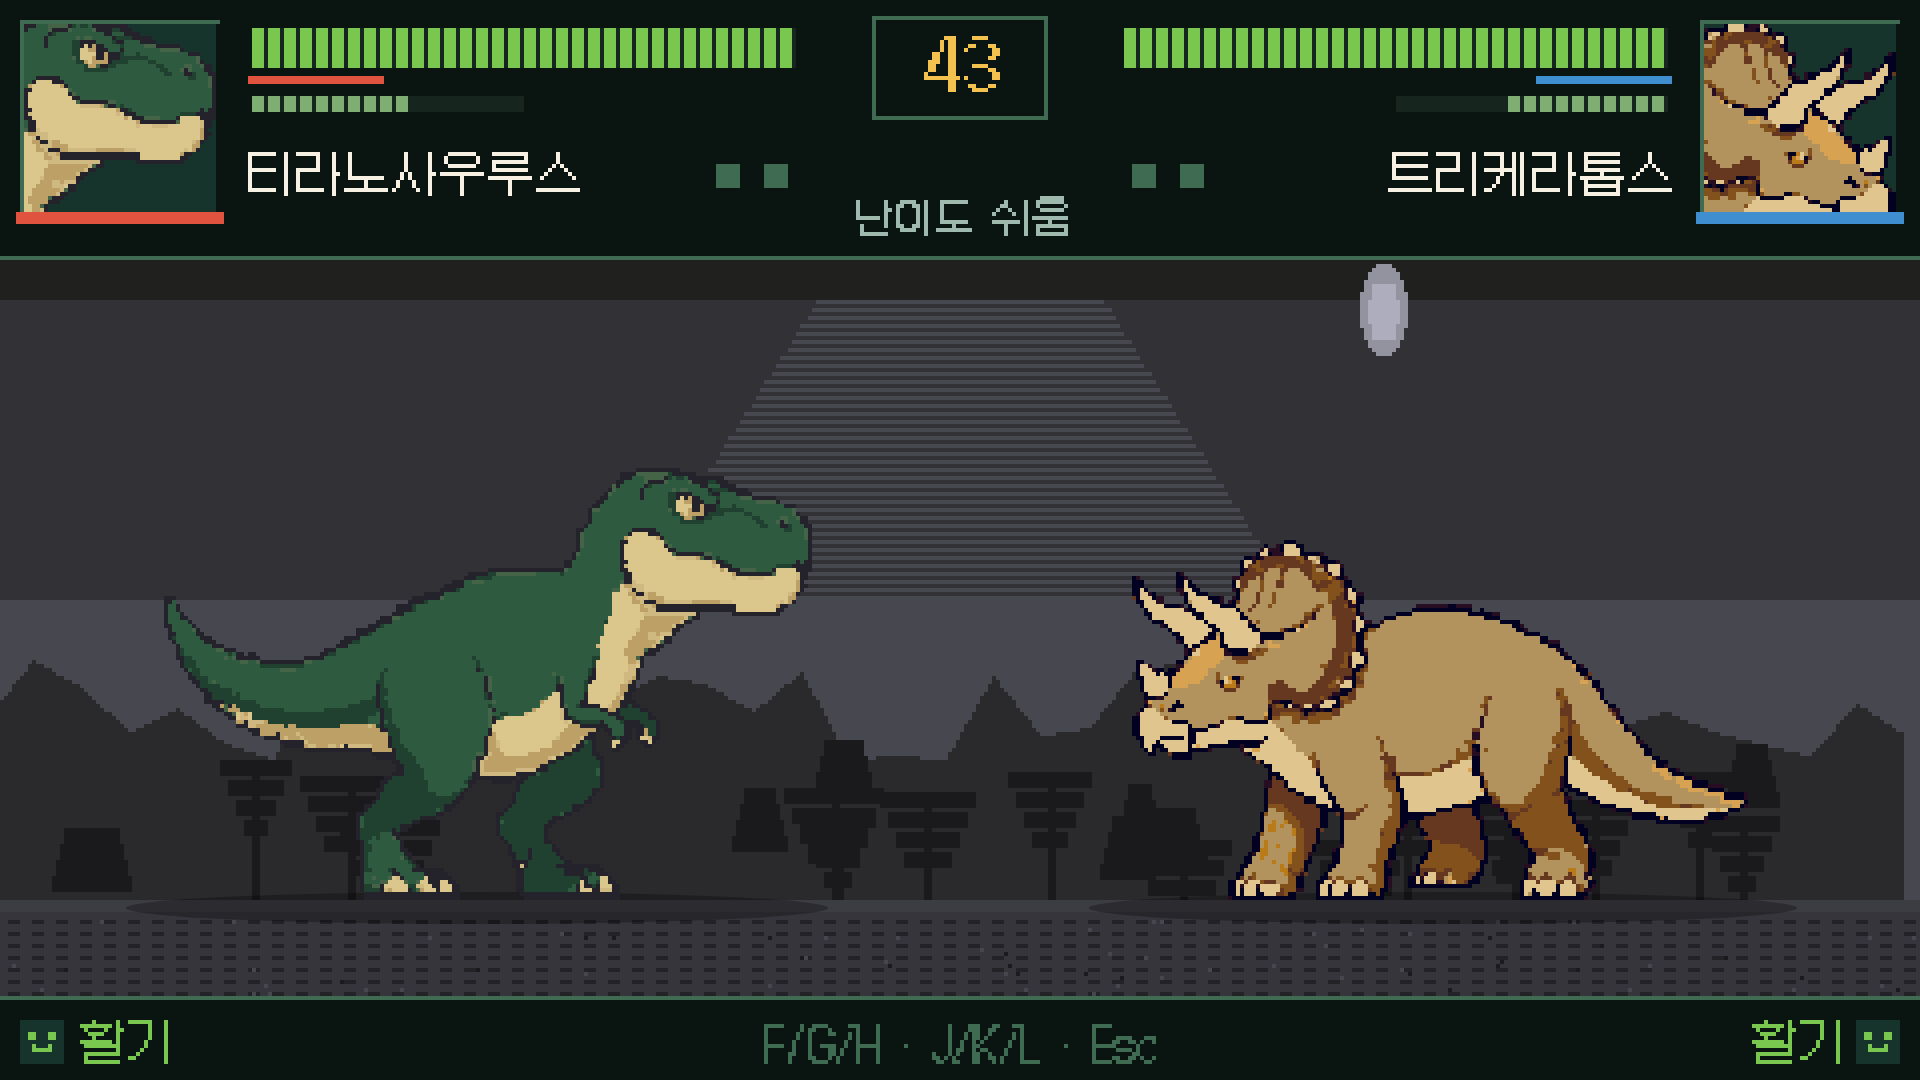
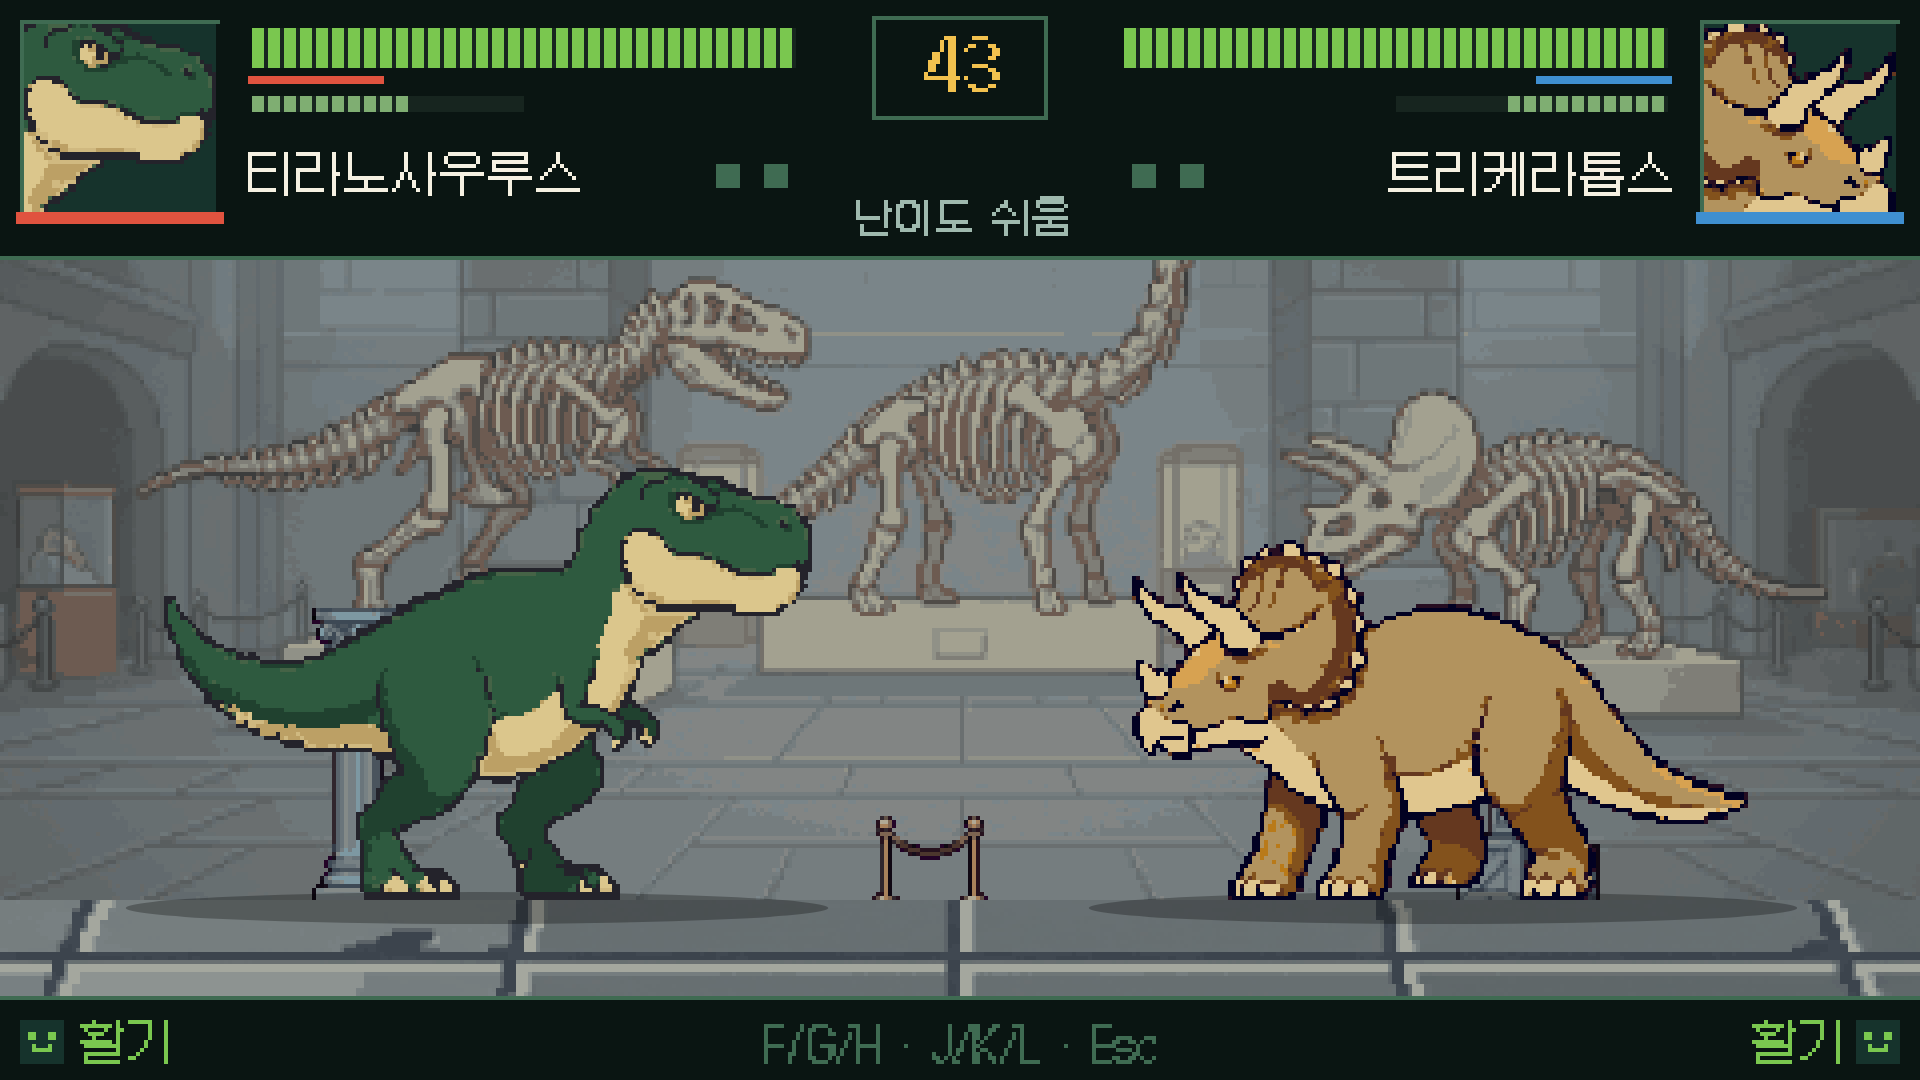
feat: 사막 화석지·공룡 박물관 도트 3레이어 인테이크 — 8곳 전부 아트, 에셋 버전에 dev-art 포함

diff --git a/vite.config.ts b/vite.config.ts
@@ -11,12 +11,19 @@ import { defineConfig, type Plugin } from 'vite';
 const allowedHosts = ['.sspark.ai'];
 
 /**
- * public/assets 와 public/dev-art 아래 모든 파일의 내용으로 하나의 버전 해시를 만든다.
+ * public/assets · public/dev-art · dev-art(원본) 아래 모든 파일의 내용으로 하나의 버전 해시를 만든다.
  * 이 값을 에셋 URL 뒤에 `?v=`로 붙이면, 같은 경로의 파일을 교체해도 URL이
  * 바뀌어 브라우저·엣지 캐시(1년 max-age)가 옛 바이트를 계속 쓰는 문제가 없어진다.
  */
 function computeAssetVersion(): string {
-  const roots = [join(process.cwd(), 'public', 'assets'), join(process.cwd(), 'public', 'dev-art')];
+  // dev-art 는 build:pilot 이 빌드 **뒤에** dist 로 복사하므로 public/dev-art 만 보면 도트 아트를
+  // 갈아 끼워도 버전이 그대로다 → 같은 경로의 layers.json·PNG 가 브라우저 캐시(404 포함)에 남는다.
+  // 원본 폴더까지 해시에 넣어야 아트를 바꿀 때 URL 이 바뀐다.
+  const roots = [
+    join(process.cwd(), 'public', 'assets'),
+    join(process.cwd(), 'public', 'dev-art'),
+    join(process.cwd(), 'dev-art'),
+  ];
   const hash = createHash('sha1');
   const walk = (root: string, dir: string): void => {
     for (const name of readdirSync(dir).sort()) {

diff --git a/src/rendering/pixel/PixelBackground.ts b/src/rendering/pixel/PixelBackground.ts
@@ -53,7 +53,7 @@ export function layerRef(value: PixelLayerRef | string): PixelLayerRef {
  * 이 목록은 `dev-art/stages/<id>/layers.json`이 있는 폴더와 정확히 같아야 하고,
  * `stageLayers.test.ts`가 디스크와 대조해 어긋나면 실패한다(아트가 늘면 목록도 같이 는다).
  */
-export const DOT_STAGE_LAYER_ART: readonly string[] = ['jungle', 'volcano', 'lagoon', 'snow', 'swamp', 'meadow'];
+export const DOT_STAGE_LAYER_ART: readonly string[] = ['jungle', 'volcano', 'desert', 'museum', 'lagoon', 'snow', 'swamp', 'meadow'];
 
 export function hasDotStageLayers(stage: string): boolean {
   return DOT_STAGE_LAYER_ART.includes(stage);

diff --git a/src/scenes/StageSelectScene.ts b/src/scenes/StageSelectScene.ts
@@ -18,7 +18,7 @@ const PER_ROW = 4;
 
 /** 도트 배경이 이미 있는 경기장은 그렇다고 표시한다(없는 곳은 절차적 도트 톤). */
 const DOT_STAGE_NOTE: Record<string, string> = {
-  jungle: '도트 배경', volcano: '도트 배경', desert: '도트 톤', museum: '도트 톤',
+  jungle: '도트 배경', volcano: '도트 배경', desert: '도트 배경', museum: '도트 배경',
   lagoon: '도트 배경', snow: '도트 배경', swamp: '도트 배경', meadow: '도트 배경',
 };
 

diff --git a/docs/dot-equivalence-20261031.md b/docs/dot-equivalence-20261031.md
@@ -1,7 +1,11 @@
 # 도트 통합 빌드 동등성 표 — 최종본 (2026-10-31, 2026-11-01 갱신)
 
 - 비교 대상: **공개 베타 = main 배포판(10/26 빌드, 도트 0)** vs **도트 통합 빌드**(걷기 복귀 + 안킬로 v4 + **경기장 4곳 3레이어 아트** 반영, 파일럿 프리뷰).
-- 2026-11-01 갱신: 아티스트 경기장 4곳 납품(`dino_arena4_layers_v1.zip`, 8245278)을 인테이크해 **8곳 전부 도트 3레이어 아트**가 되었다 → 4번 항목 △ → **O**. 근거 캡처 `evidence-arena8/arena8-sheet.png`(8곳 한 장).
+- 2026-11-01 갱신: 아티스트 경기장 4곳 납품(`dino_arena4_layers_v1.zip`, 8245278)을 인테이크 — 이때 아트가 들어간 곳은 6곳이다.
+  **정정(2026-11-01)**: 이 줄은 처음에 "8곳 전부 도트 3레이어 아트"라고 적었는데 과장이었다. 사막 화석지·공룡 박물관은
+  절차적 도트(`PixelStageFallback`)로 남아 있었고, 마스터가 캡처에서 8곳 톤이 섞이는 것을 집어냈다.
+- 2026-11-01 2차 갱신: `dino_arena_desert_museum_layers_v1.zip`(8273977) 인테이크로 **사막 화석지·공룡 박물관도
+  도트 3레이어 아트**가 되었다 → 8곳 전부 아트, 4번 항목 실제로 O. 근거 캡처 `evidence-arena8/arena8-sheet.png`(8곳 한 장, 재캡처).
 - 판정 기준(마스터 2026-10-31): "나란히 놓고 **눈에 띄게 나쁘지 않다**". 수치 동일성이 아니라 체감 회귀 여부.
 - O = 같거나 낫다 / △ = 공개판보다 떨어지는 부분이 있다(사유 필수) / X = 회귀.
 - 캡처: 도트 = `scripts/shoot-dot-flow.mjs` 로 같은 입력·같은 해상도(1920×1080)에서 새로 받았다. 공개 베타 = `evidence-v8` 의 PUBLIC 캡처(배포판 그대로, 재배포 없음).
@@ -11,7 +15,7 @@
 | 1 | 타이틀 | 벡터 로고·3버튼·패드 안내 | 도트 양피지 로고·버튼, 한글 문구 정확 | O | `evidence-dot-font/1-title.png` |
 | 2 | 모드 선택 | 2버튼 | 도트 판 + 동일 2항목 | O | `04-stage.png` 계열 / `02-mode.png` |
 | 3 | 캐릭터 선택 | 12종 초상, 난이도·도움 미표시 | 12종 도트 초상 + 난이도·도움 칩 표시 | O | `03-select.png` |
-| 4 | 경기장 선택 | 8곳 전부 그림 썸네일·그림 배경 | **8곳 전부 도트 3레이어 아트**, 선택 화면은 8곳 모두 '도트 배경' 라벨 | O | `evidence-arena8/arena8-sheet.png` |
+| 4 | 경기장 선택 | 8곳 전부 그림 썸네일·그림 배경 | **8곳 전부 도트 3레이어 아트**, 선택 화면은 8곳 모두 '도트 배경' 라벨 | O | `evidence-arena8/arena8-sheet.png`(11/01 재캡처) |
 | 5 | VS 화면 | 배경+초상 슬라이드 | 동일 구성 도트화 | O | `06-vs.png` |
 | 6 | 대전 HUD | 체력바·이름·초상·계기 | + 라운드점·난이도·특수기 문구, 초상 크기 52 | O | `07-battle.png` |
 | 7 | 전투 배경·캐릭터 배율 | 그림 배경 | 도트 3레이어, 스프라이트 배율 = 캔버스 k(1080에서 3) | O | `07-battle.png`, `evidence-walk/6` |
@@ -26,7 +30,7 @@
 
 ## △ 사유 (공개 베타보다 떨어지는 항목)
 
-없음 — 2026-11-01 경기장 4곳 아트 인테이크로 15항목 전부 O.
+없음 — 2026-11-01 사막 화석지·공룡 박물관 아트 인테이크까지 끝나 8곳 전부 도트 3레이어 아트, 15항목 전부 O.
 
 참고(판정 아님): 신규 4곳(해변 석호·설원 숲·달밤 늪·꽃 피는 초원)의 원경은 아티스트가 규격대로
 '지평선 아래 평평한 띠'로 그려 정글·화산보다 밀도가 한 단계 낮다. 밀도 보강은 마스터 판정으로

diff --git a/docs/arena-desert-museum-runbook-20261101.md b/docs/arena-desert-museum-runbook-20261101.md
@@ -78,3 +78,29 @@ node scripts/shoot-arena8.mjs http://127.0.0.1:5199/ evidence-arena8
   또렷한 이중 경계를 만들지는 않는다. 최종 판정은 마스터.
 - 고칠 경우 범위: `dev-art/stages/volcano/volcano_mid_736x360.png` 한 장(295~297행 채우기).
   코드·판정·다른 경기장은 불변.
+
+## 인테이크 결과 (2026-11-01)
+
+납품 `dino_arena_desert_museum_layers_v1.zip`(8273977, 4.4MB) → `desert`, `museum` 6파일 전부 규격 PASS
+(960×360 RGB 불투명 / 736·832×360 RGBA 이진, 중경 끝행 298·지면 298~359, 레이어당 28색, 마젠타 0).
+`--write` 로 `dev-art/stages/{desert,museum}/` + `layers.json` 투입, 코드 두 줄 수정.
+납품 이름이 이미 게임 id와 같아 `--map` 은 쓰지 않았다. `*_x4.png`·합성본·아티스트 `layers.json`(scrollX 등)은
+게임 계약이 아니라 넣지 않았다(시차 0.25/0.60/1.00 은 엔진 `LAYER_PARALLAX` 와 같은 값).
+
+검증: `vitest` **769/769**, `tsc` OK, 접촉 게이트 **36/36 PASS**(`docs/contact-gate-20261031.md` diff 0),
+`build:pilot` 성공, 8곳 캡처 재촬영 → `evidence-arena8/arena8-sheet.png`.
+
+### 도중에 드러난 결함 — 새 아트가 안 뜨고 절차적 배경이 찍혔다
+
+첫 캡처에서 사막·박물관만 절차적 도트 그대로였다. 원인은 아트가 아니라 **브라우저 캐시**:
+`ASSET_VERSION` 해시가 `public/assets`·`public/dev-art` 만 훑는데 `dev-art` 는 빌드 **뒤에** dist 로
+복사되므로 버전이 바뀌지 않는다 → 직전 세션에서 받은 `dev-art/stages/<id>/layers.json` 의 **404 가
+같은 URL(`?v=…`)로 캐시**되어 새 파일을 요청하지 않았다. 캡처용 크롬 프로필(`/tmp/arena8-profile`)도 재사용됐다.
+
+수정 2건:
+1. `vite.config.ts` — 해시 대상에 저장소 루트 `dev-art/` 추가. 아트를 갈아 끼우면 URL 이 바뀐다.
+   (`find` 순서는 정렬 순회라 결정적이다.)
+2. `scripts/shoot-arena8.mjs` — 실행마다 새 프로필(`/tmp/arena8-profile-<pid>`).
+
+재빌드 후 8곳 재촬영 → 사막·박물관 모두 아트 표시. **배포 시에도 같은 함정이 있다**: 이전에 `/pilot/` 을
+열어 404 를 받은 브라우저는 새 빌드의 버전이 바뀌어야 새 레이어를 받는다(이번 수정으로 해소).
